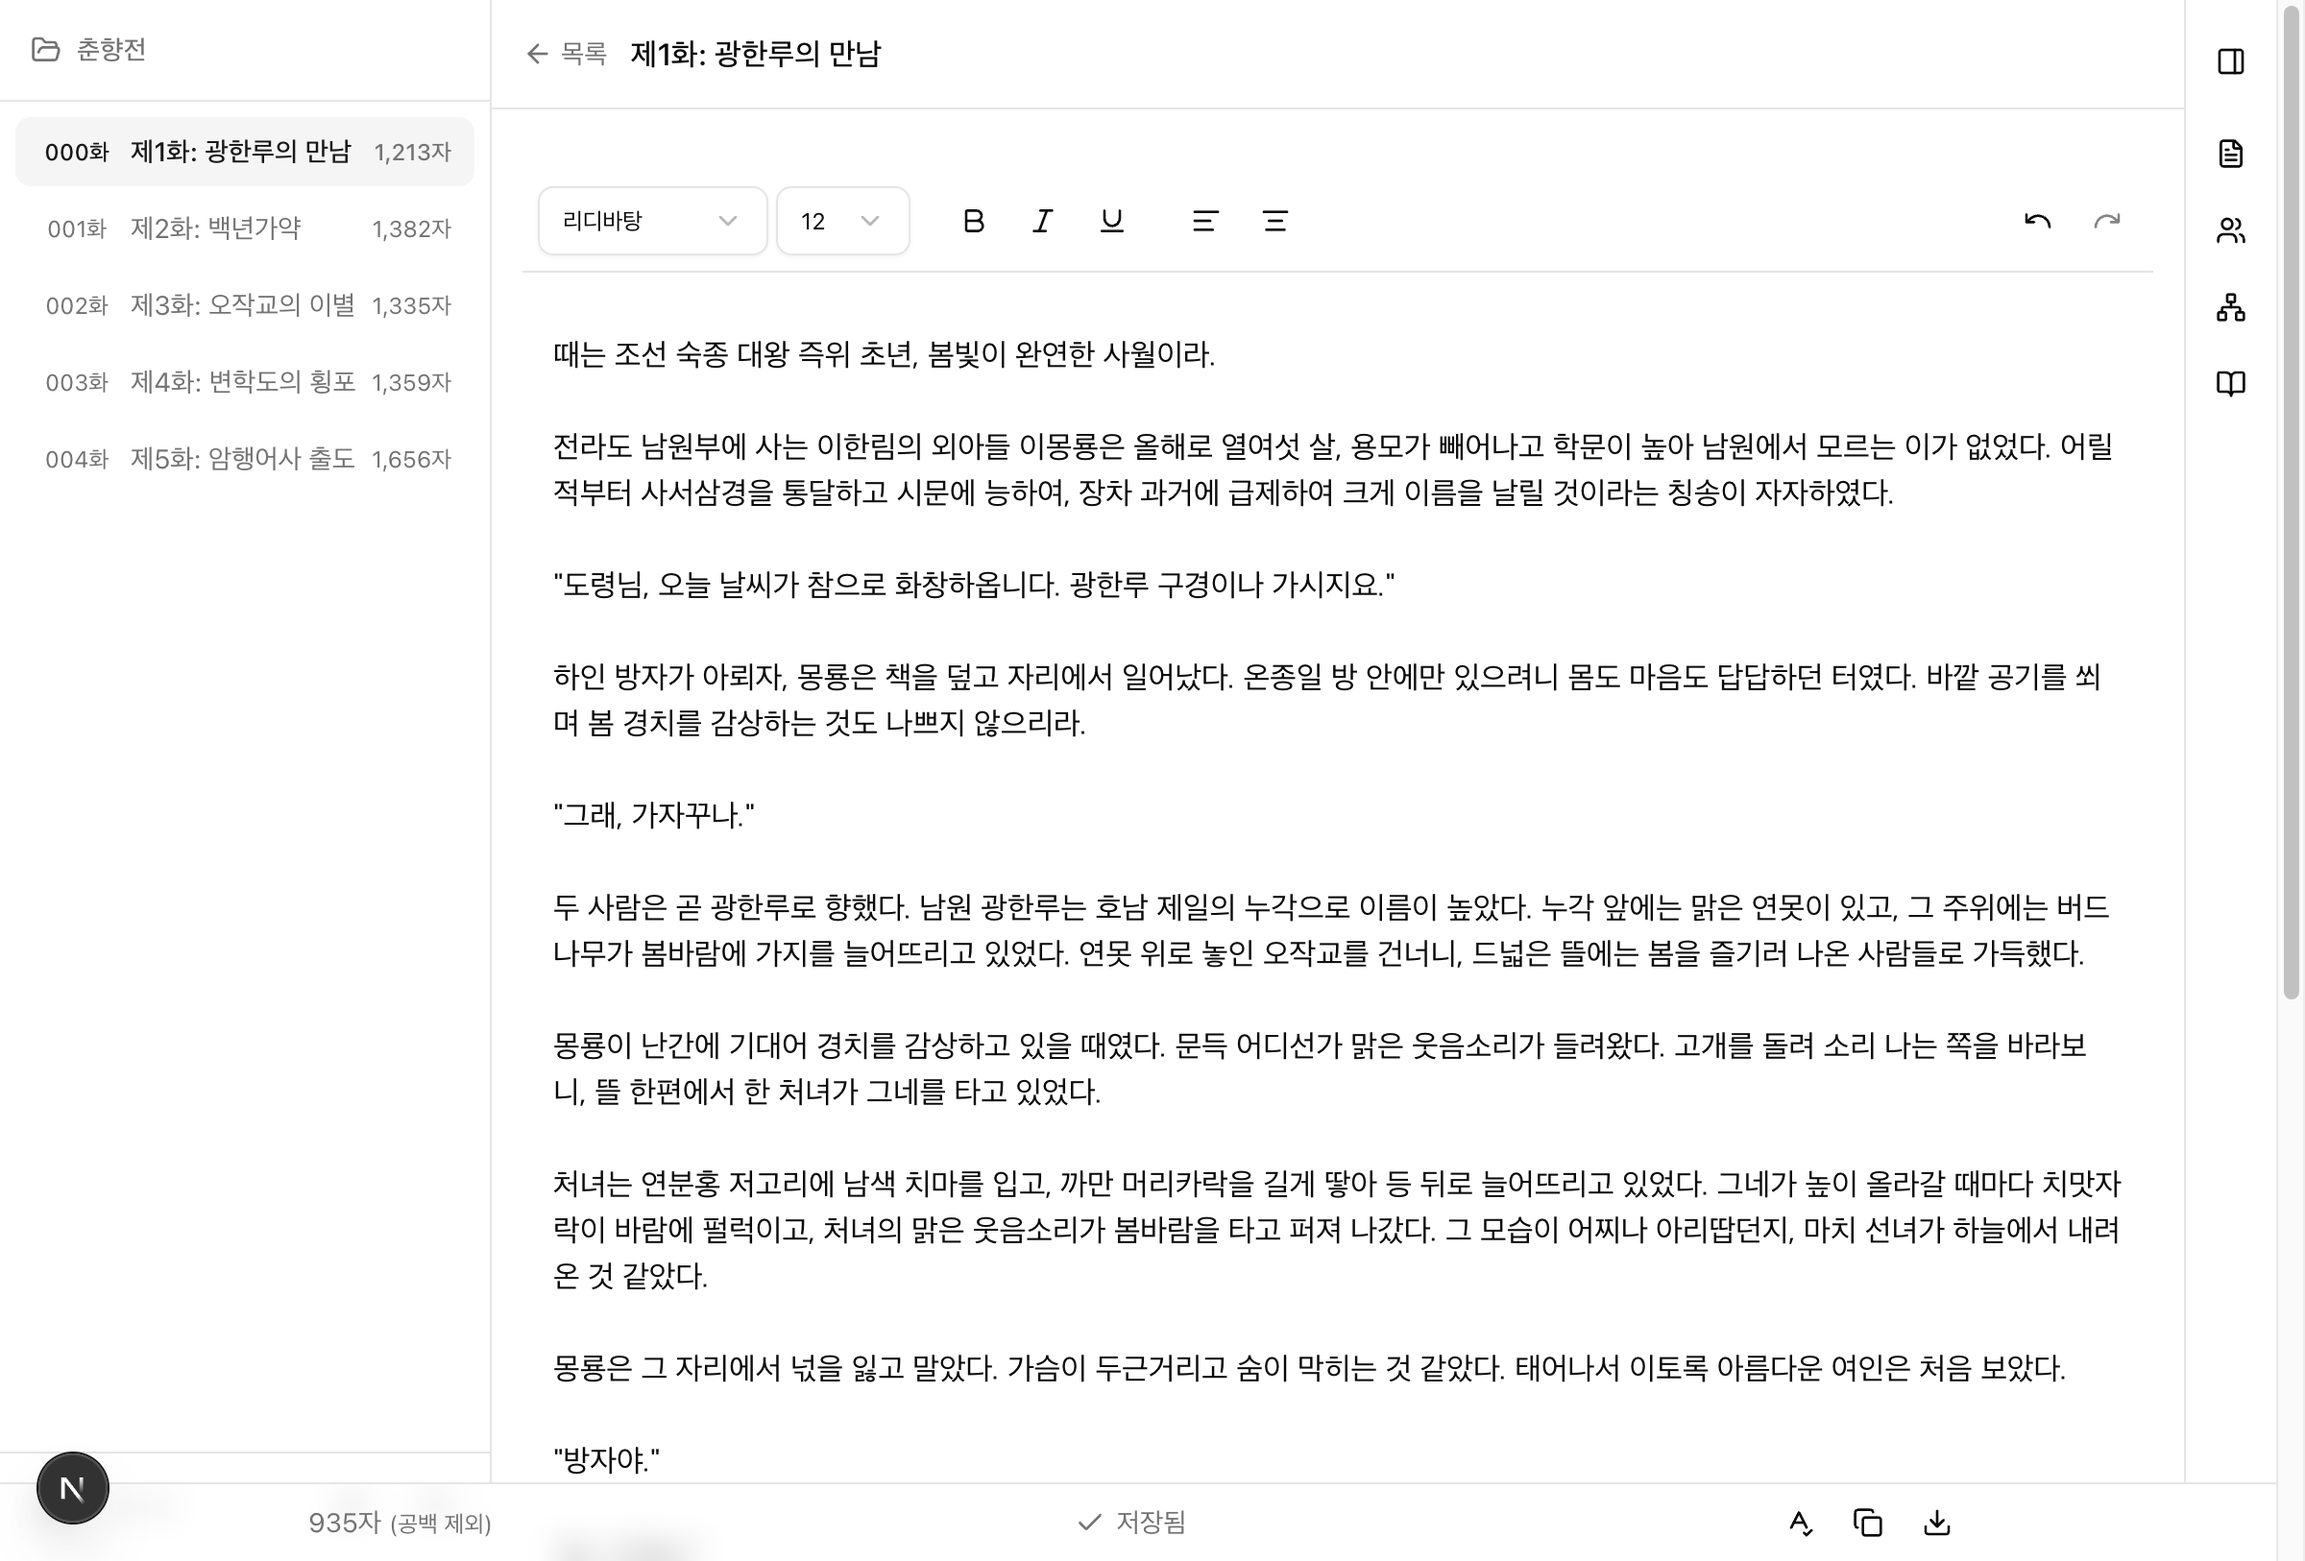
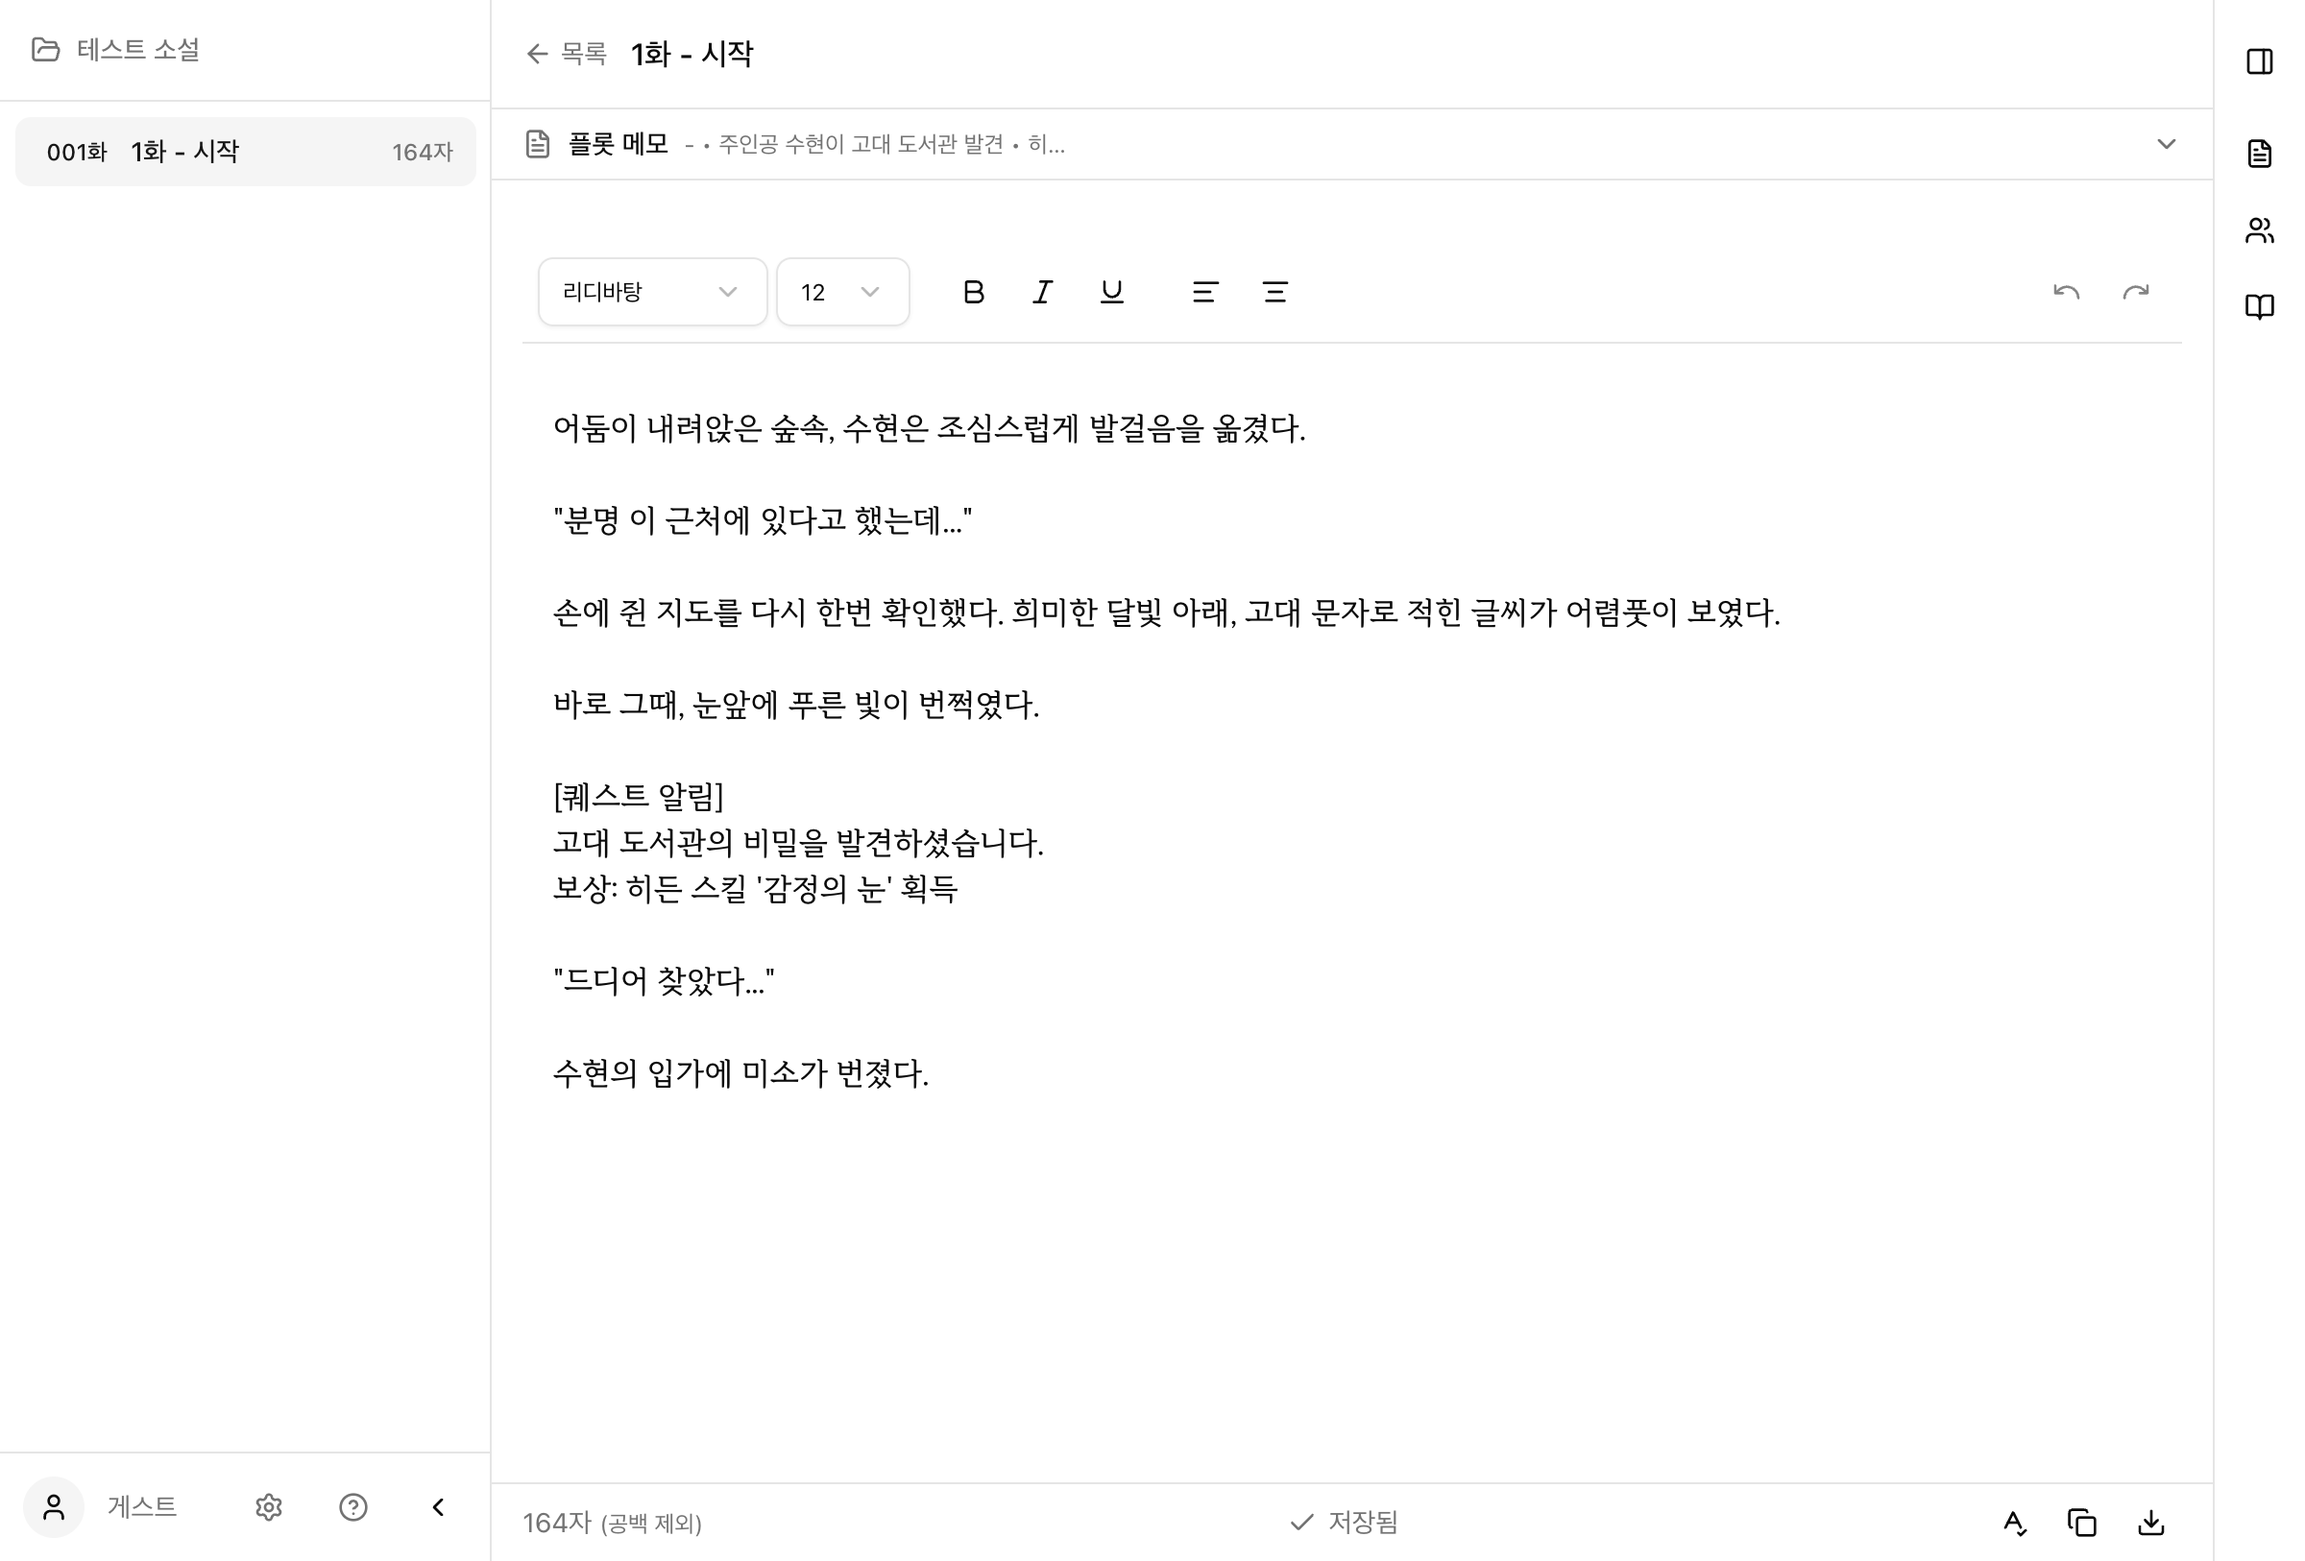
docs: 가이드 스크린샷 최신화 및 추가
- 기존 스크린샷 5개 최신화 (landing, editor, characters, relationships, novels-list)
- 신규 스크린샷 8개 추가 (chapter-list, cover-upload, custom-fields, editor-right-panel, novel-settings, plot-memo, relationship-create, relationship-list)
- 8개 문서에 스크린샷 삽입

diff --git a/guide/character/custom-fields.md b/guide/character/custom-fields.md
@@ -4,6 +4,8 @@
 
 원하는 정보 필드를 **직접 추가**할 수 있습니다.
 
+![커스텀 필드 설정 화면](/screenshots/custom-fields.png)
+
 ## 커스텀 필드란?
 
 기본 제공되는 필드(이름, 나이, 성별 등) 외에 **사용자가 정의하는 추가 필드**입니다.

diff --git a/guide/editor/right-panel.md b/guide/editor/right-panel.md
@@ -4,6 +4,8 @@
 
 우측 패널에서 시놉시스, 캐릭터, 회차 목록을 **참조하며 집필**할 수 있습니다.
 
+![에디터 우측 패널](/screenshots/editor-right-panel.png)
+
 ## 패널 구성
 
 우측 패널은 **탭**으로 구성되어 있어요:

diff --git a/guide/novel/chapter-create.md b/guide/novel/chapter-create.md
@@ -4,6 +4,8 @@
 
 소설 상세 페이지에서 **새 회차** 버튼을 눌러 회차를 추가하세요.
 
+![회차 목록 화면](/screenshots/chapter-list.png)
+
 ## 회차 생성하기
 
 1. 소설 상세 페이지에서 **새 회차** 버튼 클릭

diff --git a/guide/relationship/create.md b/guide/relationship/create.md
@@ -4,6 +4,8 @@
 
 그래프에서 직접 관계를 연결하거나, 다이얼로그로 추가할 수 있습니다.
 
+![관계 추가 화면](/screenshots/relationship-create.png)
+
 ## 관계 추가 방법
 
 ### 방법 1: 그래프에서 연결

diff --git a/guide/novel/cover-image.md b/guide/novel/cover-image.md
@@ -4,6 +4,8 @@
 
 소설 카드에 표시될 표지 이미지를 설정하세요.
 
+![표지 이미지 설정 화면](/screenshots/cover-upload.png)
+
 ## 이미지 설정 방법
 
 1. 소설 생성 또는 수정 다이얼로그 열기

diff --git a/guide/editor/plot-memo.md b/guide/editor/plot-memo.md
@@ -2,6 +2,8 @@
 
 > 회차별 줄거리나 메모를 기록하세요.
 
+![플롯 메모 화면](/screenshots/plot-memo.png)
+
 ## 플롯 메모란?
 
 각 회차에 간단한 메모를 작성할 수 있는 기능입니다.

diff --git a/guide/novel/edit.md b/guide/novel/edit.md
@@ -4,6 +4,8 @@
 
 소설 정보는 언제든 수정할 수 있습니다.
 
+![소설 설정 화면](/screenshots/novel-settings.png)
+
 ## 수정 방법
 
 1. 소설 상세 페이지 이동

diff --git a/guide/editor/formatting.md b/guide/editor/formatting.md
@@ -4,6 +4,8 @@
 
 툴바에서 다양한 서식을 적용할 수 있습니다.
 
+![에디터 툴바](/screenshots/editor.png)
+
 ## 지원하는 서식
 
 | 서식 | 단축키 | 설명 |
